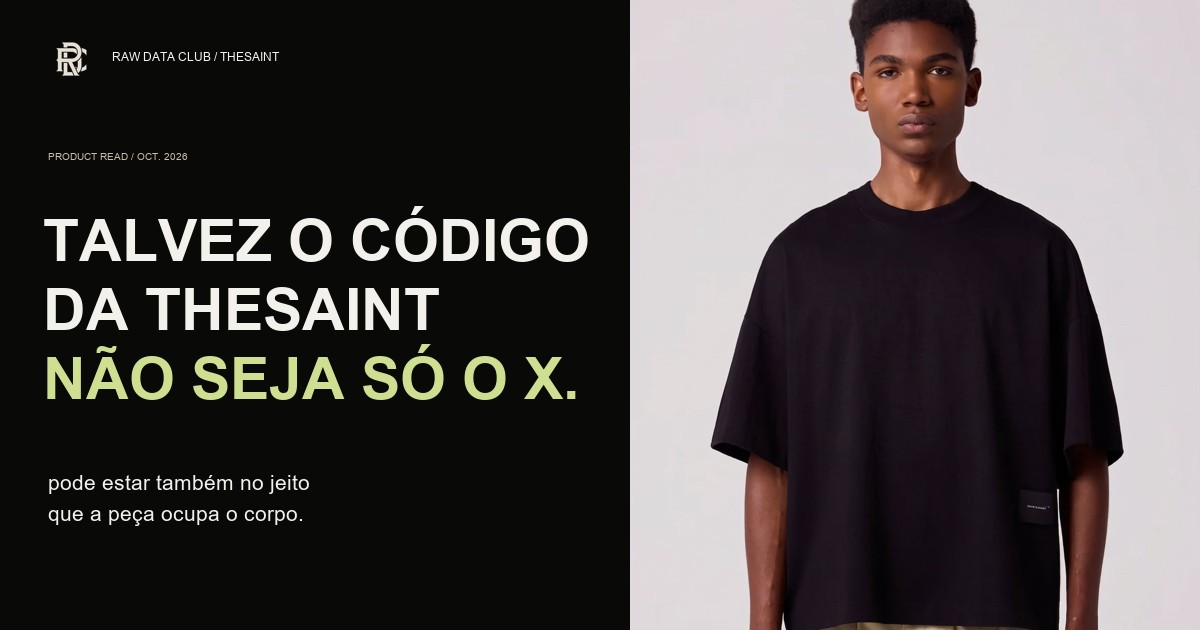
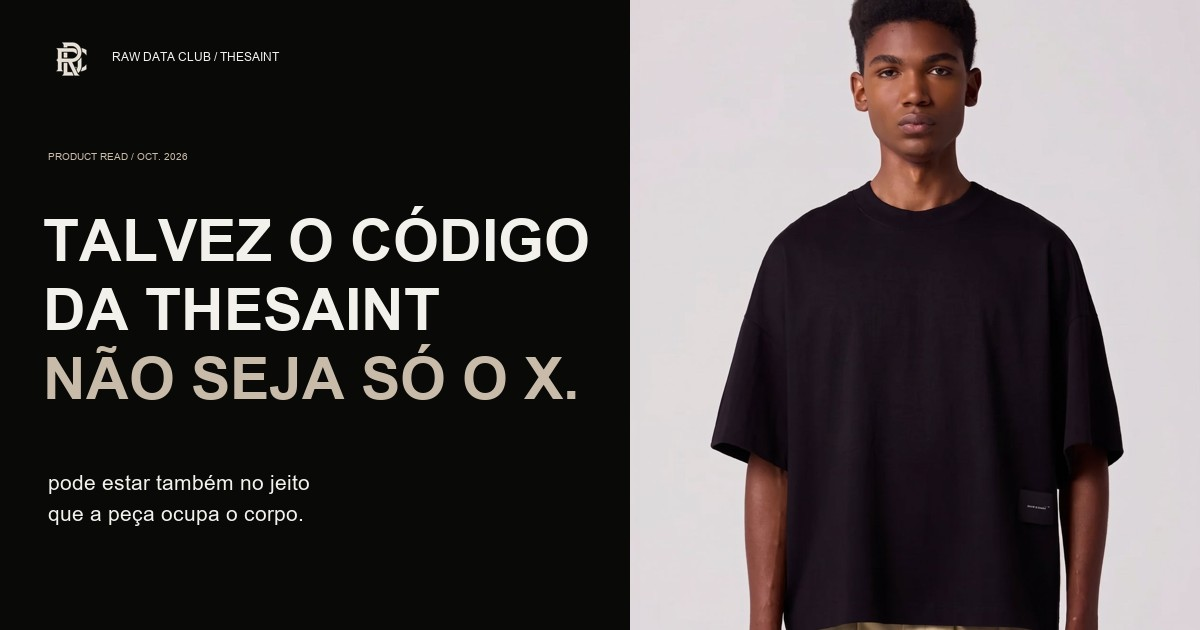
Align editorial palette with RDC brand kit

Changed region(s): [[0.0308, 0.5429, 0.4933, 0.6333]]

diff --git a/src/app/globals.css b/src/app/globals.css
@@ -2,7 +2,7 @@
 @theme {
   --color-carbon: #090908;
   --color-bone: #e8e2d8;
-  --color-signal: #cedf92;
+  --color-signal: #c9bba9;
   --font-sans: Arial, Helvetica, sans-serif;
 }
 :root {
@@ -14,7 +14,9 @@
   --bone: #e8e2d8;
   --white: #f3f1ec;
   --dust: #c9bba9;
-  --signal: #cedf92;
+  --signal: #c9bba9;
+  --oxide: #684a3b;
+  --umber: #3a2d27;
   --gutter: 6vw;
 }
 * {
@@ -305,7 +307,7 @@ button:focus-visible,
   font-size: 17px;
   max-width: 410px;
   line-height: 1.5;
-  color: #c8c8c1;
+  color: var(--silver);
 }
 .fit-explorer {
   display: grid;
@@ -315,7 +317,7 @@ button:focus-visible,
 }
 .fit-visual {
   position: relative;
-  background: #242420;
+  background: var(--graphite);
   aspect-ratio: 4/4.6;
   overflow: hidden;
 }
@@ -374,7 +376,7 @@ button:focus-visible,
 .fit-description > p {
   font-size: 15px;
   max-width: 380px;
-  color: #c8c8c1;
+  color: var(--silver);
 }
 .fit-description .source {
   margin-top: 12px;
@@ -475,9 +477,7 @@ button:focus-visible,
 .brazil-section {
   position: relative;
   isolation: isolate;
-  background:
-    radial-gradient(ellipse at 95% 70%, #cedf9208, transparent 42%),
-    var(--black);
+  background: var(--black);
 }
 .brazil-section > h2 {
   font-size: clamp(50px, 6.3vw, 96px);
@@ -490,7 +490,7 @@ button:focus-visible,
 }
 .story .photo {
   aspect-ratio: 4/4.4;
-  background: #242421;
+  background: var(--graphite);
 }
 .story img {
   object-position: center 20%;
@@ -513,7 +513,7 @@ button:focus-visible,
 .story-copy > p:not(.eyebrow) {
   font-size: 15px;
   line-height: 1.5;
-  color: #c8c8c1;
+  color: var(--silver);
   max-width: 460px;
 }
 .story-copy .story-read {
@@ -547,7 +547,7 @@ button:focus-visible,
 }
 .global-grid .photo {
   height: 260px;
-  background: #22221e;
+  background: var(--graphite);
 }
 .global-grid img {
   object-position: center 20%;
@@ -584,7 +584,7 @@ button:focus-visible,
 }
 .ftx-section {
   position: relative;
-  background: radial-gradient(ellipse at 15% 50%, #cedf9210, transparent 60%);
+  background: var(--umber);
 }
 .footwear {
   display: grid;
@@ -595,7 +595,7 @@ button:focus-visible,
 .shoe-image {
   position: relative;
   aspect-ratio: 1;
-  background: #171814;
+  background: var(--graphite);
   overflow: hidden;
 }
 .shoe-image .photo {
@@ -634,9 +634,9 @@ button:focus-visible,
   min-height: 40px;
 }
 .shoe-tabs button[aria-pressed="true"] {
-  border-color: #cedf9288;
+  border-color: #c9bba988;
   color: var(--signal);
-  background: #cedf920a;
+  background: #c9bba90a;
 }
 .shoe-note {
   min-height: 54px;
@@ -654,7 +654,7 @@ button:focus-visible,
 }
 .question-section {
   border-top: 1px solid #706e6933;
-  background: radial-gradient(ellipse at 75% 4%, #cedf9208, transparent 35%);
+  background: var(--carbon);
 }
 .question-intro {
   margin-bottom: 55px;
@@ -1306,3 +1306,8 @@ button:focus-visible,
 .collab-section .aside, .collab-section .small-muted, .collab-section .source { color: #595751; }
 
 .collab-section .section-label .aside { opacity: 1; }
+
+
+.ftx-section .shoe-note, .ftx-section .source, .ftx-section .section-label .aside { color: var(--dust); }
+.collab-section .source:hover { color: var(--oxide); }
+.collab-section :focus-visible { outline-color: var(--oxide); }
